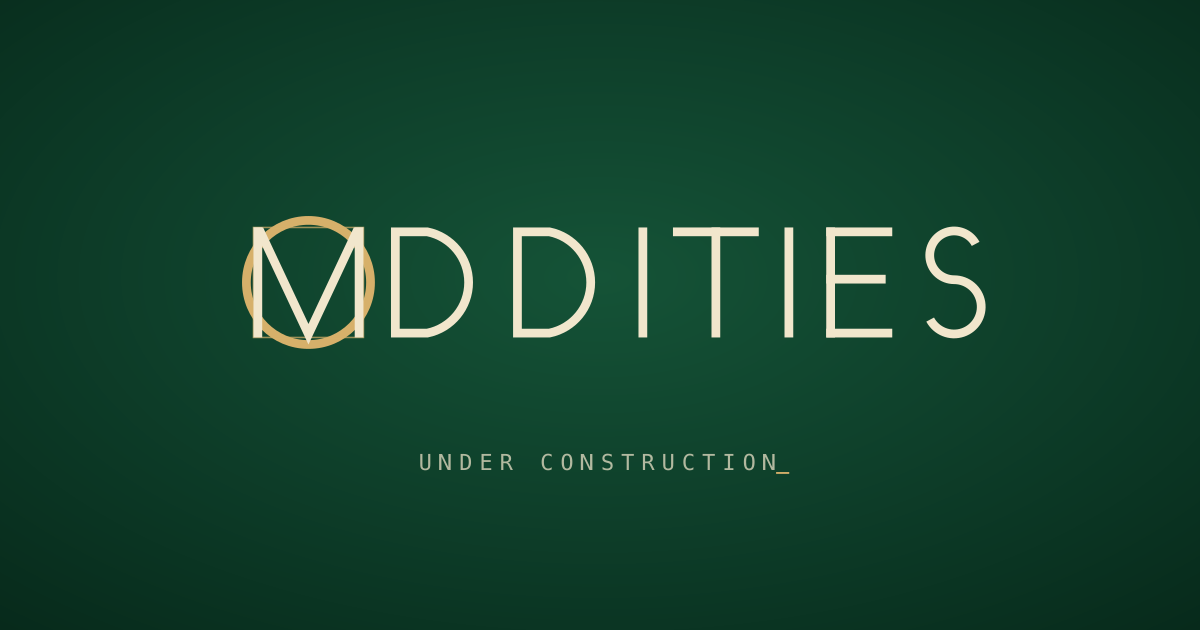
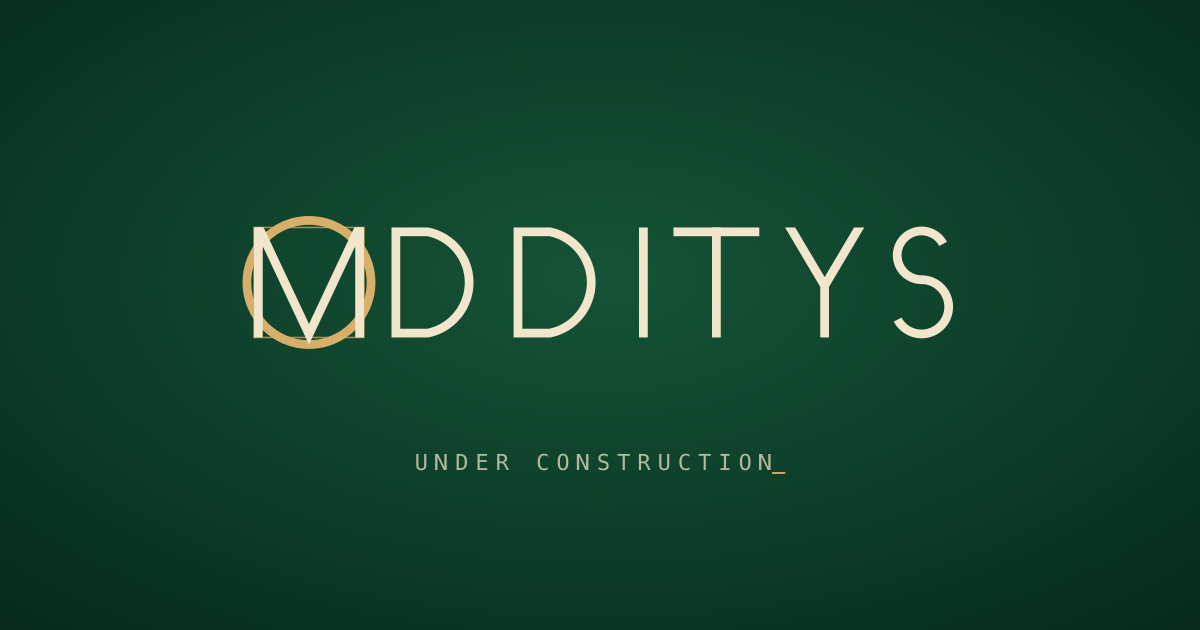
Spell it Modditys, to match the domain
The wordmark's IE becomes a Y drawn on the lockup's geometry (7.95 monoline,
polygons like the M so the arms sit flush on the cap line), the S moves in,
and the titles and share image follow.

diff --git a/404.html b/404.html
@@ -3,10 +3,10 @@
 <head>
 <meta charset="utf-8">
 <meta name="viewport" content="width=device-width, initial-scale=1">
-<title>Moddities — under construction</title>
-<meta name="description" content="Moddities. Under construction.">
+<title>Modditys — under construction</title>
+<meta name="description" content="Modditys. Under construction.">
 <meta name="theme-color" content="#0e3f2a">
-<meta property="og:title" content="Moddities">
+<meta property="og:title" content="Modditys">
 <meta property="og:description" content="Under construction.">
 <meta property="og:type" content="website">
 <meta property="og:url" content="https://modditys.com/">
@@ -128,8 +128,8 @@
 </head>
 <body>
 <main>
-  <svg class="lockup play" viewBox="-14.42 -14.42 688.01 128.84" role="img" aria-label="Moddities">
-    <title>Moddities</title>
+  <svg class="lockup play" viewBox="-14.42 -14.42 657.96 128.84" role="img" aria-label="Modditys">
+    <title>Modditys</title>
     <circle id="ring" class="acc" cx="50" cy="50" r="56.42" stroke-width="7.95"/>
     <rect id="sq" class="acc" x="0" y="0" width="100" height="100" stroke-width="1.4"/>
     <g id="m" class="ink">
@@ -141,9 +141,8 @@
     <g class="l" style="--i:1"><path class="ln" d="M239.99 3.97 L269.06 3.97 A46.99 46.99 0 0 1 269.06 96.03 L239.99 96.03 Z" stroke-linejoin="miter"/></g>
     <g class="l ink" style="--i:2"><rect x="350.02" y="0" width="7.95" height="100"/></g>
     <g class="l ink" style="--i:3"><rect x="381.37" y="0" width="78" height="7.95"/><rect x="416.39" y="0" width="7.95" height="100"/></g>
-    <g class="l ink" style="--i:4"><rect x="482.77" y="0" width="7.95" height="100"/></g>
-    <g class="l ink" style="--i:5"><rect x="520.72" y="0" width="7.95" height="100"/><rect x="520.72" y="0" width="60" height="7.95"/><rect x="520.72" y="43.03" width="54" height="7.95"/><rect x="520.72" y="92.05" width="60" height="7.95"/></g>
-    <g class="l" style="--i:6"><path class="ln" d="M656.52 14.93 A22.16 22.16 0 1 0 636.96 47.5 A24.66 24.66 0 1 1 615.18 83.74" stroke-linecap="butt"/></g>
+    <g class="l ink" style="--i:4"><path d="M482.77 0 L492.01 0 L518.77 45.12 L545.53 0 L554.77 0 L522.75 54 L522.75 100 L514.79 100 L514.79 54 Z"/></g>
+    <g class="l" style="--i:5"><path class="ln" d="M626.47 14.93 A22.16 22.16 0 1 0 606.91 47.5 A24.66 24.66 0 1 1 585.13 83.74" stroke-linecap="butt"/></g>
   </svg>
   <p class="status">Under construction<span class="cursor">_</span></p>
 </main>

diff --git a/index.html b/index.html
@@ -3,10 +3,10 @@
 <head>
 <meta charset="utf-8">
 <meta name="viewport" content="width=device-width, initial-scale=1">
-<title>Moddities — under construction</title>
-<meta name="description" content="Moddities. Under construction.">
+<title>Modditys — under construction</title>
+<meta name="description" content="Modditys. Under construction.">
 <meta name="theme-color" content="#0e3f2a">
-<meta property="og:title" content="Moddities">
+<meta property="og:title" content="Modditys">
 <meta property="og:description" content="Under construction.">
 <meta property="og:type" content="website">
 <meta property="og:url" content="https://modditys.com/">
@@ -128,8 +128,8 @@
 </head>
 <body>
 <main>
-  <svg class="lockup play" viewBox="-14.42 -14.42 688.01 128.84" role="img" aria-label="Moddities">
-    <title>Moddities</title>
+  <svg class="lockup play" viewBox="-14.42 -14.42 657.96 128.84" role="img" aria-label="Modditys">
+    <title>Modditys</title>
     <circle id="ring" class="acc" cx="50" cy="50" r="56.42" stroke-width="7.95"/>
     <rect id="sq" class="acc" x="0" y="0" width="100" height="100" stroke-width="1.4"/>
     <g id="m" class="ink">
@@ -141,9 +141,8 @@
     <g class="l" style="--i:1"><path class="ln" d="M239.99 3.97 L269.06 3.97 A46.99 46.99 0 0 1 269.06 96.03 L239.99 96.03 Z" stroke-linejoin="miter"/></g>
     <g class="l ink" style="--i:2"><rect x="350.02" y="0" width="7.95" height="100"/></g>
     <g class="l ink" style="--i:3"><rect x="381.37" y="0" width="78" height="7.95"/><rect x="416.39" y="0" width="7.95" height="100"/></g>
-    <g class="l ink" style="--i:4"><rect x="482.77" y="0" width="7.95" height="100"/></g>
-    <g class="l ink" style="--i:5"><rect x="520.72" y="0" width="7.95" height="100"/><rect x="520.72" y="0" width="60" height="7.95"/><rect x="520.72" y="43.03" width="54" height="7.95"/><rect x="520.72" y="92.05" width="60" height="7.95"/></g>
-    <g class="l" style="--i:6"><path class="ln" d="M656.52 14.93 A22.16 22.16 0 1 0 636.96 47.5 A24.66 24.66 0 1 1 615.18 83.74" stroke-linecap="butt"/></g>
+    <g class="l ink" style="--i:4"><path d="M482.77 0 L492.01 0 L518.77 45.12 L545.53 0 L554.77 0 L522.75 54 L522.75 100 L514.79 100 L514.79 54 Z"/></g>
+    <g class="l" style="--i:5"><path class="ln" d="M626.47 14.93 A22.16 22.16 0 1 0 606.91 47.5 A24.66 24.66 0 1 1 585.13 83.74" stroke-linecap="butt"/></g>
   </svg>
   <p class="status">Under construction<span class="cursor">_</span></p>
 </main>

diff --git a/README.md b/README.md
@@ -1,7 +1,7 @@
 # modditys.com
 
 The temporary under-construction page for Moddities, served by GitHub Pages from `main` at https://modditys.com.
-(The repo is named moddities.com; the domain we hold is modditys.com.)
+The wordmark reads MODDITYS to match the domain: the brand lockup with its "IE" redrawn as a Y (same 7.95 monoline, arms meeting at 45, the height of the E's old middle bar).
 
 - `index.html` is the whole page: the MoDDITIES lockup inline (from `~/moddities/brand/svg/lockup-mo_ddities_full`), with the throw animation in CSS. Tap the mark to throw the M again.
 - `404.html` is a copy of `index.html`, so every path lands on the page. After editing, run `cp index.html 404.html`.
